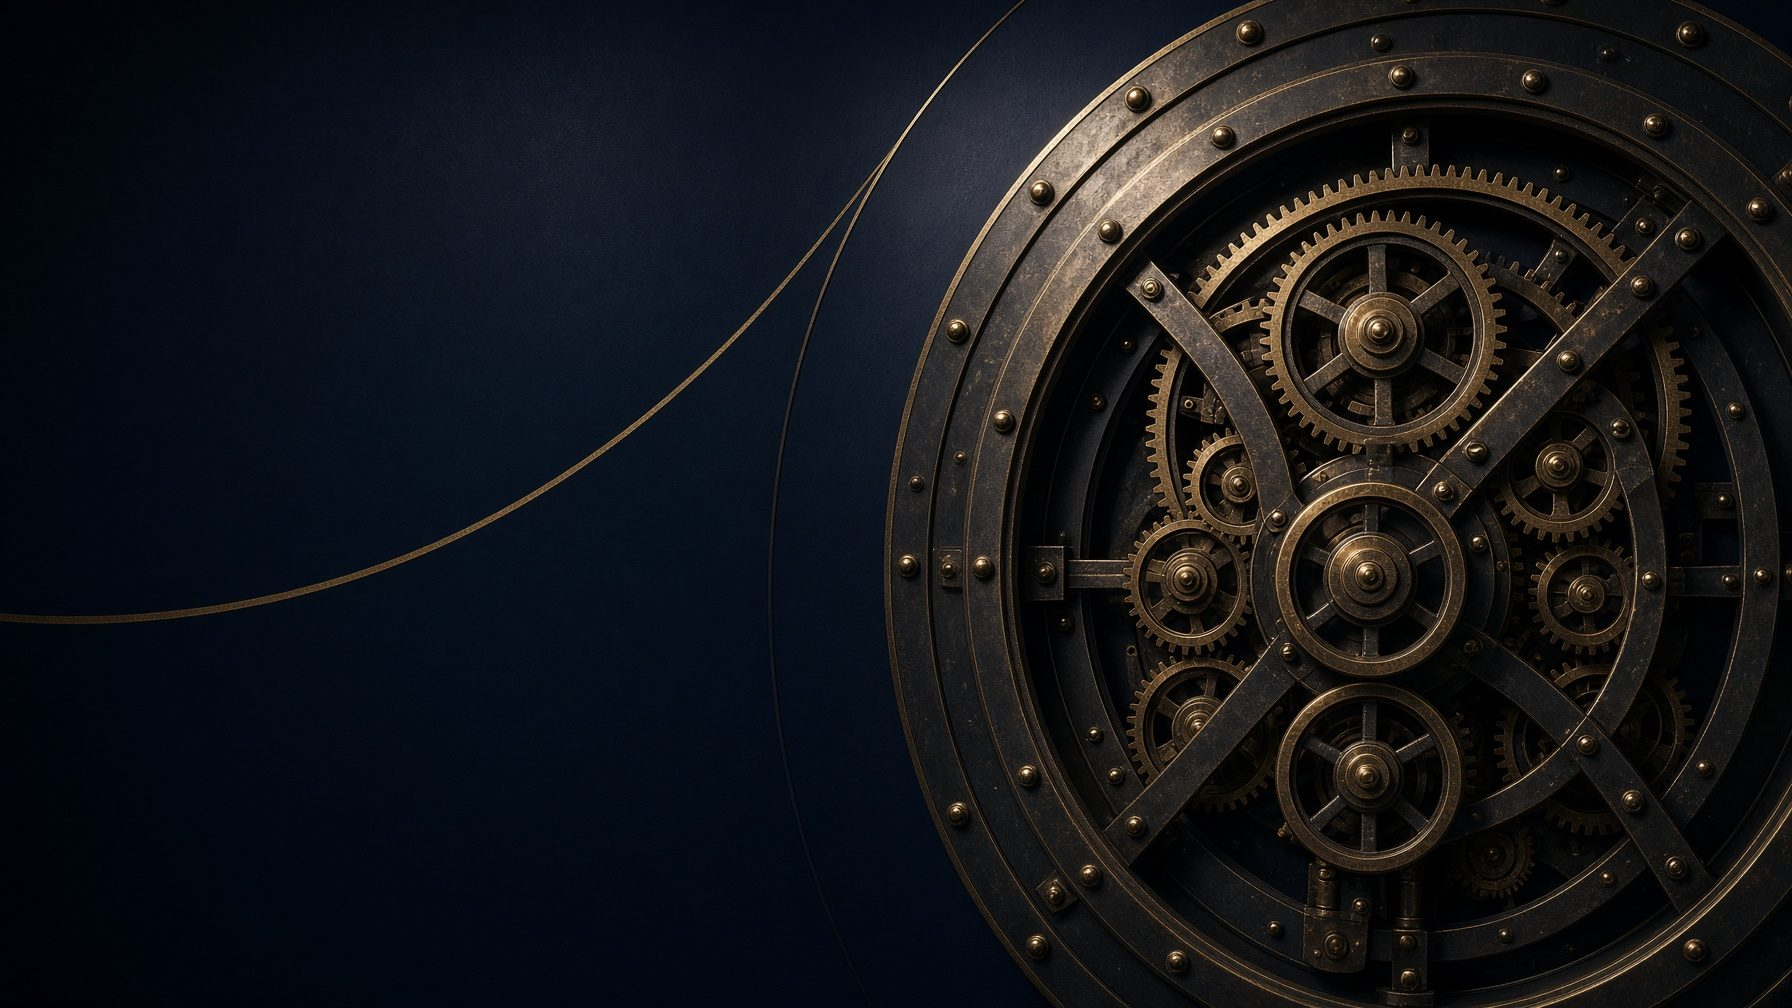
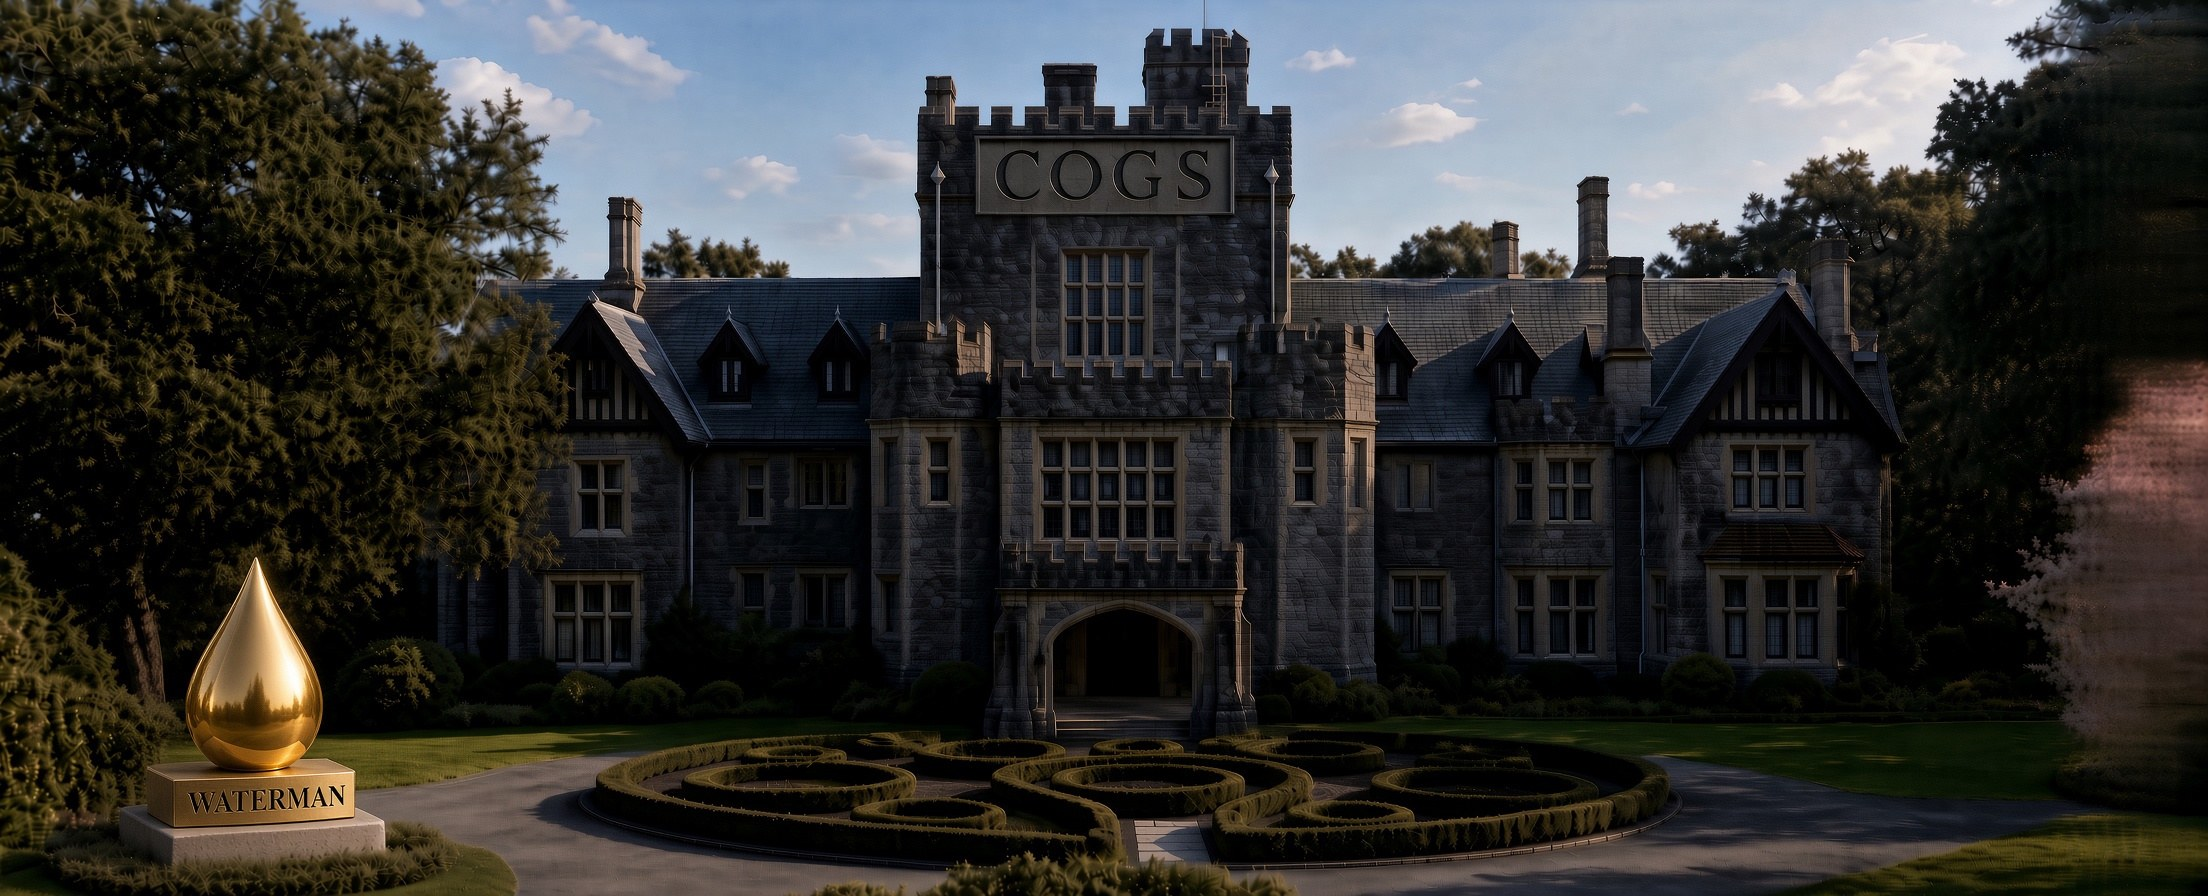
Use the COGS campus photograph as the home hero
Set the gothic Waterman College building — tower, lawn, and drop — as
the main homepage background, with a lighter overlay so the photo reads.

diff --git a/src/routes/index.tsx b/src/routes/index.tsx
@@ -19,11 +19,11 @@ function Home() {
       <section className="relative isolate min-h-[30rem] overflow-hidden bg-navy text-paper sm:min-h-[44rem]">
         <img
           src={pages.homeHeroImage || "/media/campus-cogs.jpg"}
-          alt="Waterman College campus hall"
-          className="absolute inset-0 h-full w-full object-cover object-[78%_center] sm:object-[70%_center]"
+          alt="Waterman College of Getting Smarter campus"
+          className="absolute inset-0 h-full w-full object-cover object-[center_42%] sm:object-[22%_center] lg:object-[18%_center]"
         />
-        <div className="absolute inset-0 bg-gradient-to-r from-navy/92 via-navy/62 to-navy/20" />
-        <div className="absolute inset-0 bg-gradient-to-t from-navy via-navy/35 to-transparent" />
+        <div className="absolute inset-0 bg-gradient-to-r from-navy/55 via-navy/12 to-transparent" />
+        <div className="absolute inset-0 bg-gradient-to-t from-navy/88 via-navy/20 to-transparent" />
         <div className="relative mx-auto flex min-h-[30rem] max-w-6xl items-end px-5 pb-14 pt-16 sm:min-h-[44rem] sm:px-8 sm:pb-24 sm:pt-28">
           <div className="max-w-2xl">
             <p className="kicker text-brass-soft">Why we exist</p>
